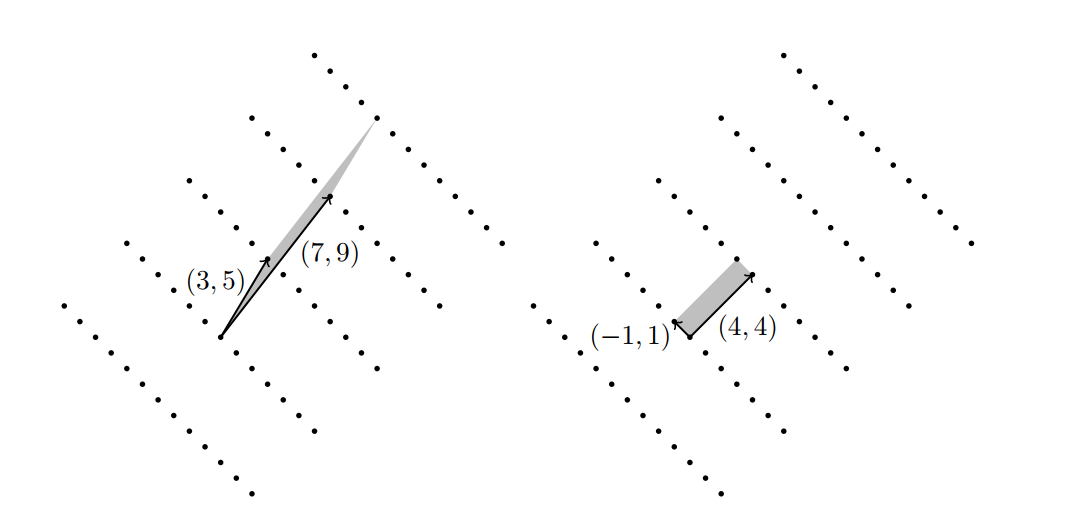
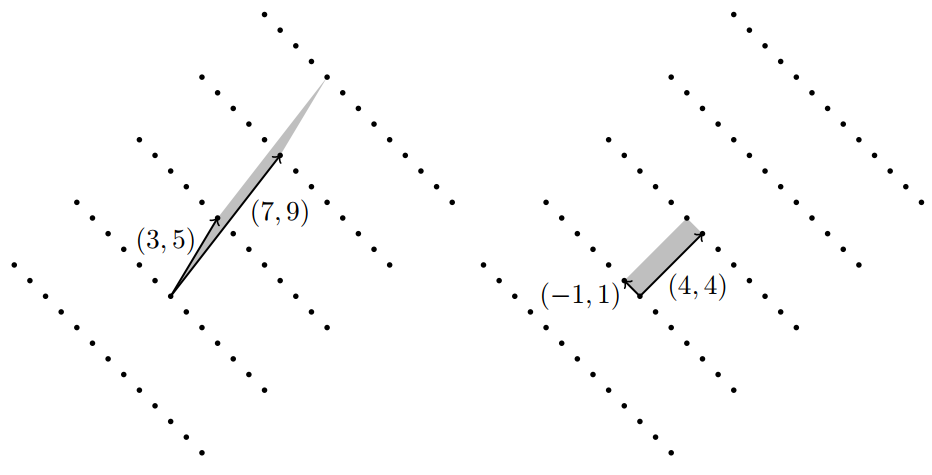
update main.tex and mo_ta_ket_qua_giam_luoi_LLL.png

diff --git a/contents/latex/main.tex b/contents/latex/main.tex
@@ -641,11 +641,11 @@ Theo công thức (\ref{equation:dinh_li_Gram-Schmidt2}) trong định lý, ta c
 \begin{frame}{Thuật toán LLL}
 \begin{itemize}
 \item Ý tưởng của việc rút gọn cơ sở là thay đổi cơ sở $B$ của lưới $L$ thành một cơ sở mới $B'$ ngắn hơn sao cho $|\det(L)|$ không đổi.
-\item Rút gọn cơ sở có thể được sử dụng để giải bài toán vector ngắn nhất theo nghĩa là vector cơ sở ngắn nhất
+\item Từ đó sử dụng để giải bài toán vector ngắn nhất
 
 \begin{figure}[H]
 \centering
-\includegraphics[scale = 0.15]{pictures/mo_ta_ket_qua_giam_luoi_LLL.png}
+\includegraphics[scale = 0.5]{pictures/mo_ta_ket_qua_giam_luoi_LLL.png}
 \caption{Lưới $L \subset R^2$. Mô tả kết quả giảm lưới trong $R^2$.}
 \end{figure}
 
